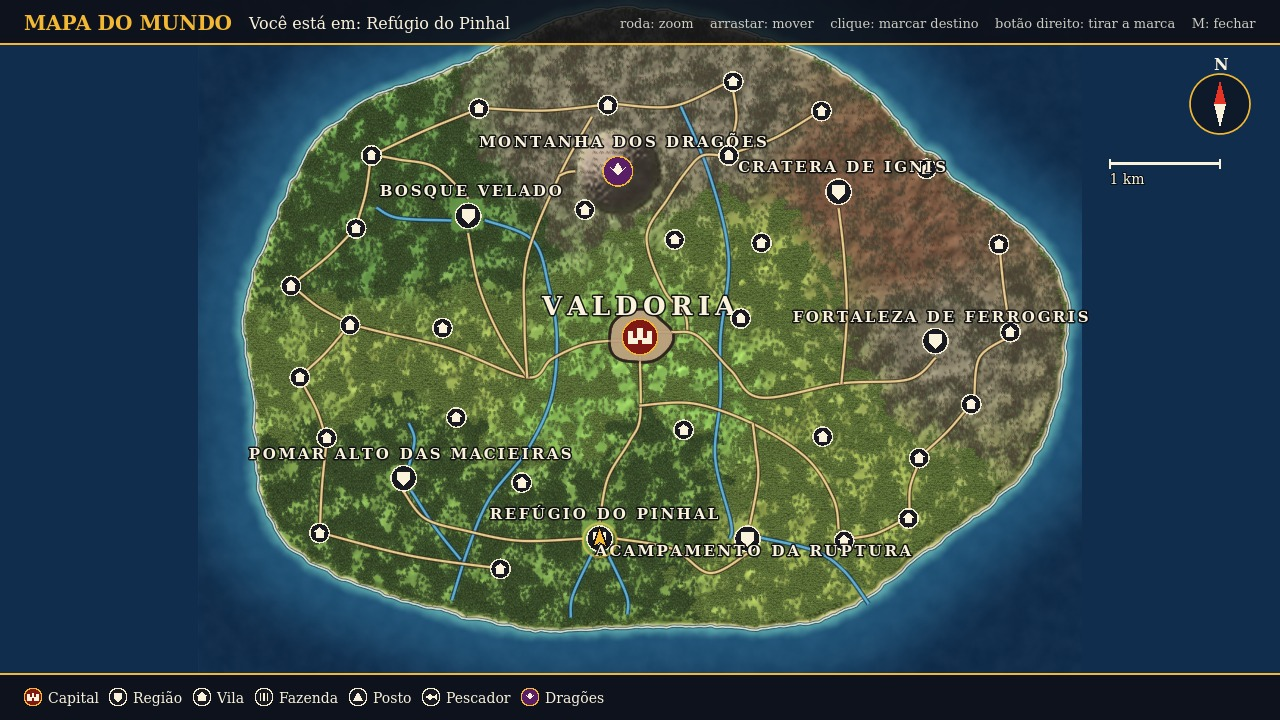
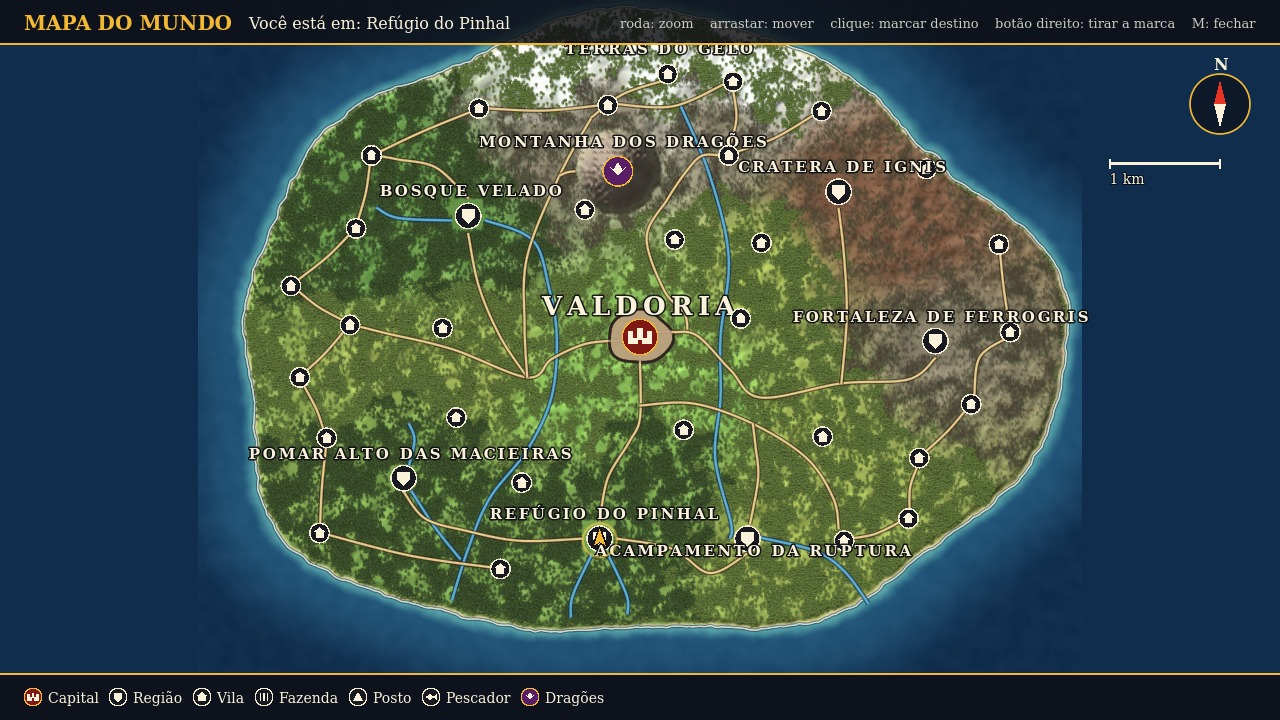
Terras do Gelo conferidas: teste_mundo TUDO PASSOU, auditoria_reino 0 defeito; fotos do lago, da vila e do mapa
Depois das fotos: o nome das Terras do Gelo no mapa foi descido (não fotografado de novo).

Claude-Session: https://claude.ai/code/session_01Vzt37KowdLhiG16GmA9WD3

diff --git a/docs/construcoes/terras_do_gelo.md b/docs/construcoes/terras_do_gelo.md
@@ -1,0 +1,17 @@
+# Peça: as TERRAS DO GELO (pedido do Cristian: "faz um lugar de gelo")
+
+- Bioma "gelo" em `scripts/mundo/biomas.gd` (extremo norte, atrás da Montanha dos Dragões): neve, pinheiros ralos, árvores mortas, sem capim.
+- `scripts/mundo/terras_do_gelo.gd` e `pecas_do_gelo.gd`: Lago Congelado (placa de gelo em que se anda), cristais, 5 veios de ferro, um dragão de espinhos pousado e um dragão branco voando.
+- Vila Geada e Trilha do Gelo em `mundo_dados.gd` (nomes criados por mim, a aprovar).
+
+## Resultado (26/11/2026)
+
+- `teste_mundo` TUDO PASSOU (bioma, andar em cima do lago, 2 dragões, vila) e `auditoria_reino` 0 defeito.
+- Fotos em `docs/construcoes/gelo/` (50_ lago, 51_ dragão, 52_ vila; 53_ a 55_ são do ninho, da loja e do inventário).
+
+## Pontos fracos anotados
+
+- A neve sai azulada na foto (foi escurecida porque o branco puro estourava ao sol); conferir no Mac.
+- Não cai neve; as árvores não têm neve em cima; as casas da vila são as mesmas das outras vilas.
+- No mapa, o nome "TERRAS DO GELO" ficava cortado pela faixa de cima; foi descido e a posição nova NÃO foi fotografada.
+- Não há bicho próprio do gelo.

diff --git a/docs/auditoria/REINO_2026-11-26.md b/docs/auditoria/REINO_2026-11-26.md
@@ -1,4 +1,4 @@
 # Auditoria do reino, 2026-11-26
 
-Conferidos: 610 casas do casario, 4 casas de praça, 3 portões, 110 pessoas e bichos. Defeitos: **0**.
+Conferidos: 610 casas do casario, 4 casas de praça, 3 portões, 107 pessoas e bichos. Defeitos: **0**.
 
